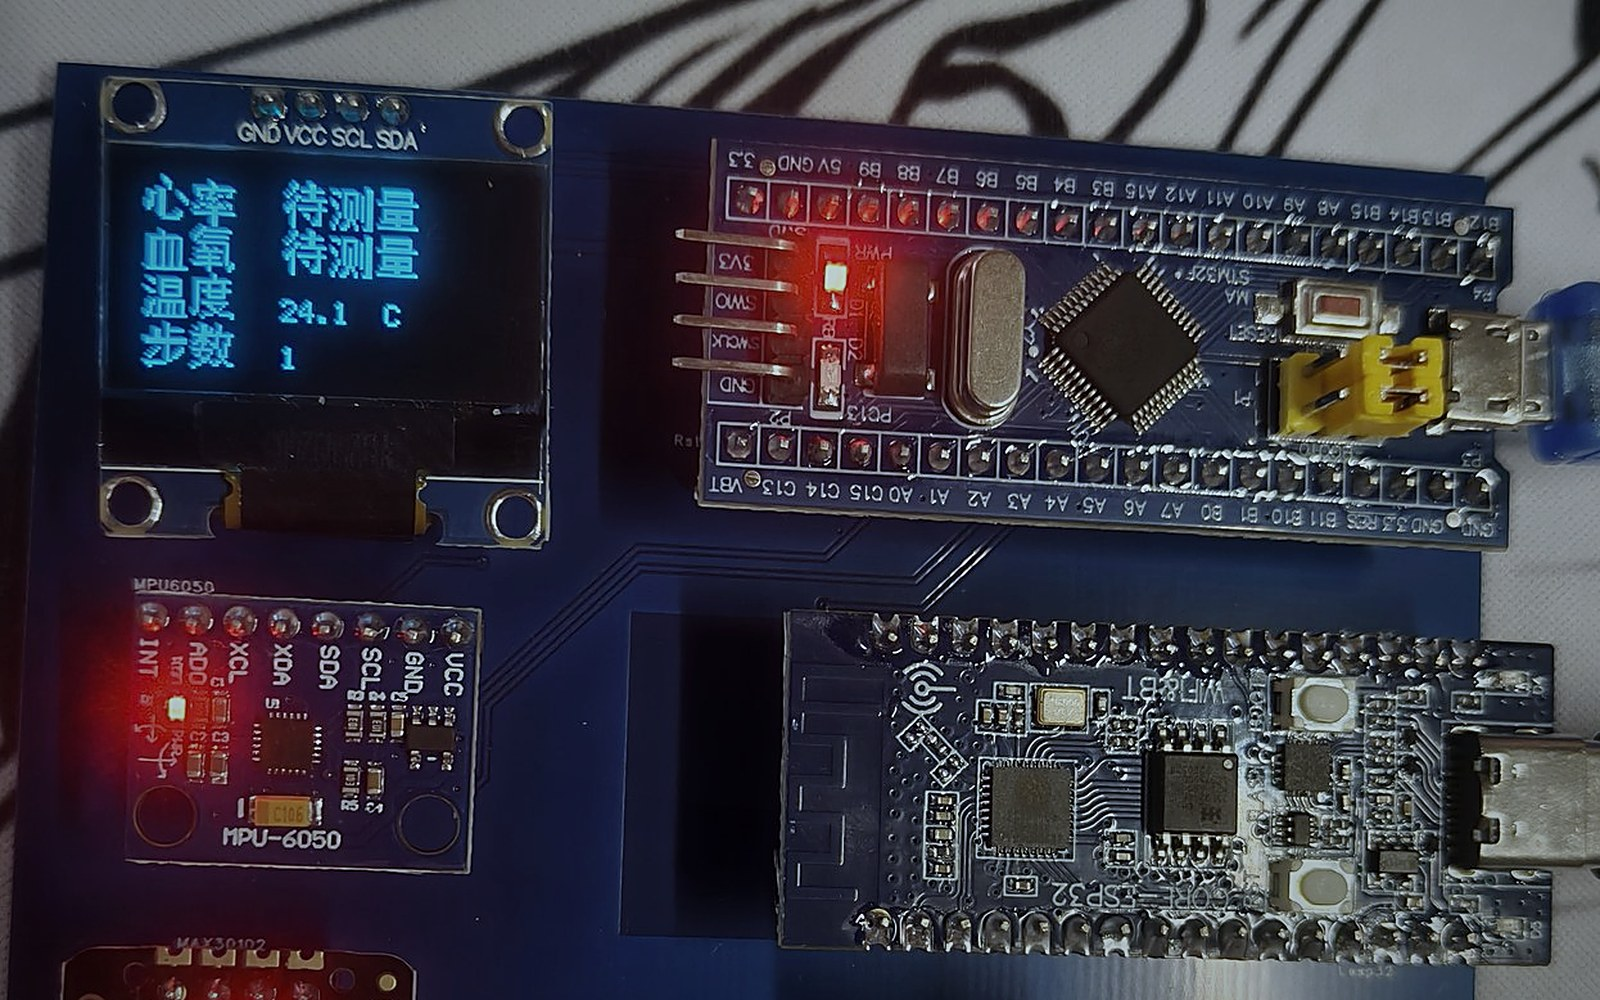
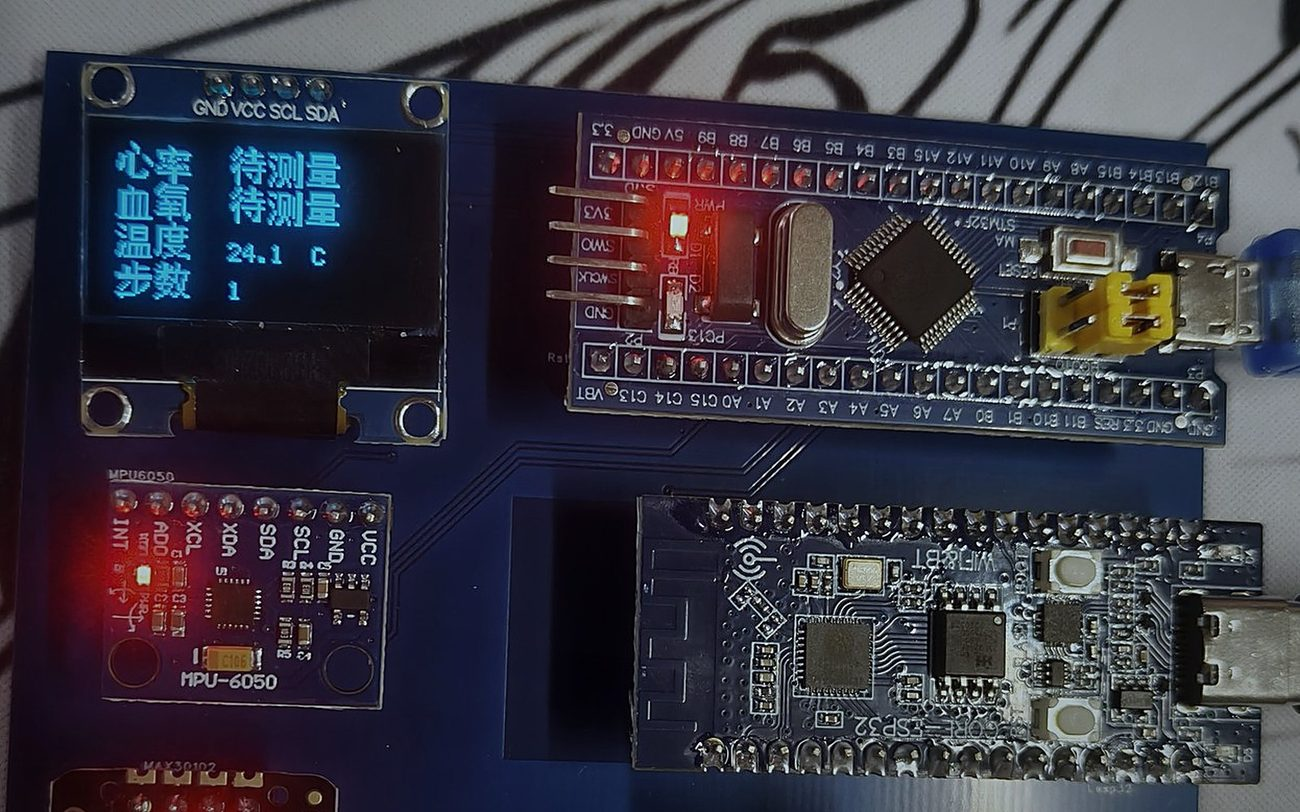
R6.1: 主视觉图片压缩（webp 56KB / 封面 203KB）、lab+about 字体预加载

diff --git a/index.html b/index.html
@@ -112,7 +112,7 @@
             </div>
           </div>
 
-          <div class="hv-phone"><img src="assets/media/p1-app-hero.png" alt="个人健康助手 Android App 实机界面" width="480" height="1067"></div>
+          <div class="hv-phone"><img src="assets/media/p1-app-hero.webp" alt="个人健康助手 Android App 实机界面" width="480" height="1067"></div>
         </div>
         <p class="hv-cap"><i></i><span data-i18n data-en="Panel values from the real device screenshots — no mock data.">面板数值取自真机截图，无演示数据</span></p>
       </div>

diff --git a/lab.html b/lab.html
@@ -16,6 +16,7 @@
 <meta name="twitter:image" content="https://beiyiovo.github.io/assets/media/og.jpg">
 <link rel="icon" href="assets/favicon.svg" type="image/svg+xml">
 <meta name="theme-color" content="#05070c">
+<link rel="preload" as="font" type="font/woff2" href="assets/fonts/noto-sans-sc-vf.woff2" crossorigin>
 <link rel="stylesheet" href="assets/css/main.css?v=6">
 <script>document.documentElement.classList.add('js');try{var l=localStorage.getItem('site-lang');if(l){document.documentElement.dataset.lang=l;}}catch(e){}</script>
 </head>

diff --git a/about.html b/about.html
@@ -16,6 +16,7 @@
 <meta property="og:url" content="https://beiyiovo.github.io/about.html">
 <link rel="icon" href="assets/favicon.svg" type="image/svg+xml">
 <meta name="theme-color" content="#05070c">
+<link rel="preload" as="font" type="font/woff2" href="assets/fonts/noto-sans-sc-vf.woff2" crossorigin>
 <link rel="stylesheet" href="assets/css/main.css?v=6">
 <script>document.documentElement.classList.add('js');try{var l=localStorage.getItem('site-lang');if(l){document.documentElement.dataset.lang=l;}}catch(e){}</script>
 </head>
